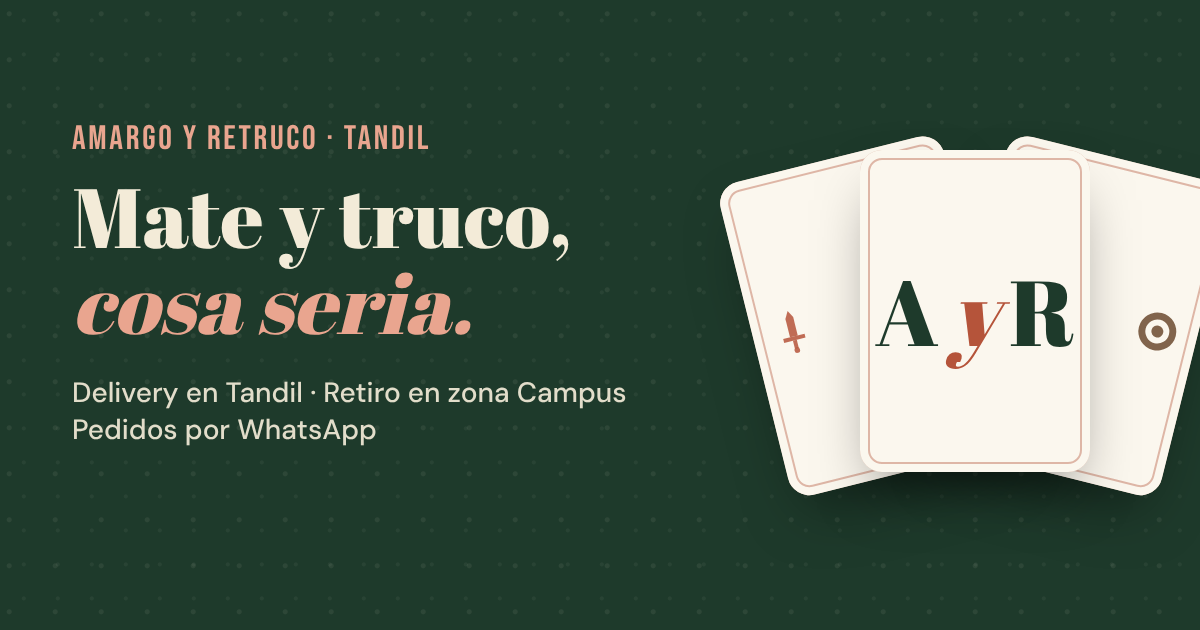
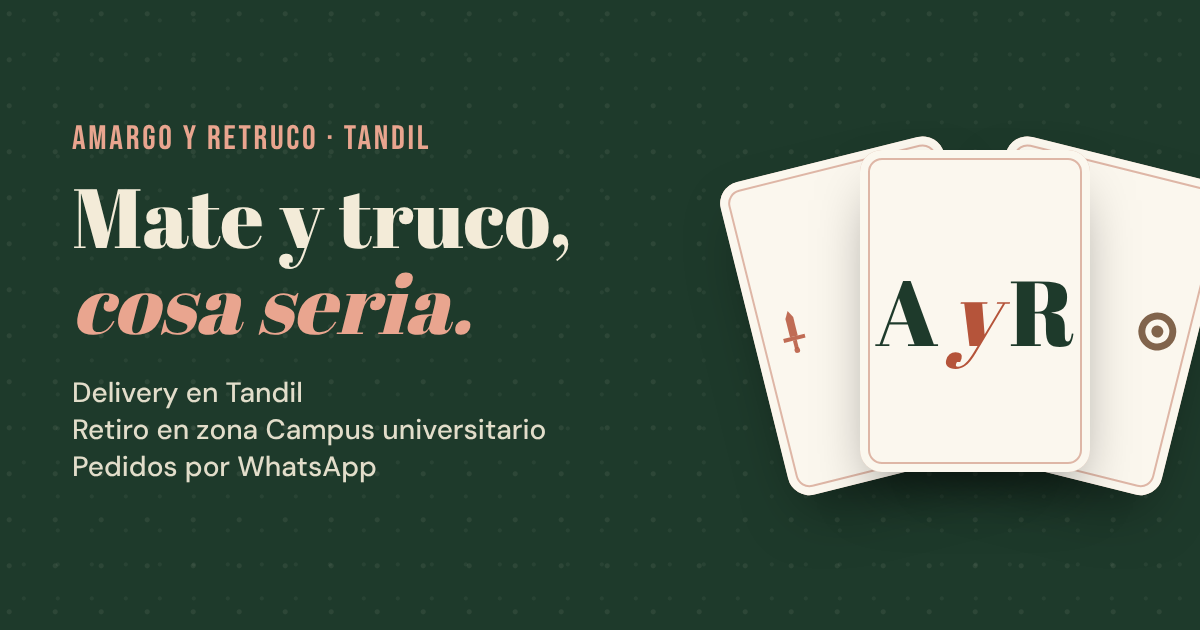
Retiro en "zona Campus universitario"
Actualiza la zona de retiro en config, "Quiénes somos", la imagen para
compartir, el README y los tests.

Claude-Session: https://claude.ai/code/session_01AajJ9CrE6UsKCjubmmoLxV

Changed region(s): [[0.0617, 0.6032, 0.5242, 0.7841]]

diff --git a/tests/e2e/site.spec.ts b/tests/e2e/site.spec.ts
@@ -153,12 +153,12 @@ test('carrito: mínimo de delivery, cambio a retiro y mensaje de WhatsApp', asyn
   await expect(orderLink(page)).not.toHaveAttribute('href', /.+/);
 
   // Ofrece cambiar a retiro.
-  await cart.getByRole('button', { name: 'Cambiar a retiro en zona Campus' }).click();
-  await expect(cart.getByLabel(/Retiro en zona Campus/)).toBeChecked();
+  await cart.getByRole('button', { name: 'Cambiar a retiro en zona Campus universitario' }).click();
+  await expect(cart.getByLabel(/Retiro en zona Campus universitario/)).toBeChecked();
   await expect(cart.locator('[data-min-warning]')).toBeHidden();
   await expect(orderLink(page)).not.toHaveAttribute('aria-disabled', 'true');
   let message = await orderMessage(page);
-  expect(message).toContain('Entrega: Retiro en zona Campus');
+  expect(message).toContain('Entrega: Retiro en zona Campus universitario');
   expect(message).toContain('*Total: $ 17.200*');
   expect(message).toContain(DISCLAIMER);
 
@@ -224,7 +224,7 @@ test('el carrito se guarda al recargar, sin datos personales', async ({ page }) 
   await card(page, ID.baldo1kg).locator('[data-add]').click();
   await page.locator('[data-cart-open]').first().click();
   await page.getByLabel(/Tu nombre/).fill('Juana');
-  await page.getByLabel(/Retiro en zona Campus/).check();
+  await page.getByLabel(/Retiro en zona Campus universitario/).check();
   await page.keyboard.press('Escape');
 
   await page.reload();
@@ -235,7 +235,7 @@ test('el carrito se guarda al recargar, sin datos personales', async ({ page }) 
 
   await page.locator('[data-cart-open]').first().click();
   await expect(page.getByLabel(/Tu nombre/)).toHaveValue('');
-  await expect(page.getByLabel(/Retiro en zona Campus/)).toBeChecked();
+  await expect(page.getByLabel(/Retiro en zona Campus universitario/)).toBeChecked();
 });
 
 test('un carrito guardado se ajusta al stock actual y los precios salen del catálogo', async ({ page }) => {

diff --git a/src/config.ts b/src/config.ts
@@ -17,7 +17,7 @@ export const BUSINESS = {
   countryCode: 'AR',
   tagline: 'Mate y truco, cosa seria',
   description:
-    'Yerba mate de las marcas que te gustan, con delivery en Tandil o retiro en zona Campus. Armá tu pedido y lo cerramos por WhatsApp.',
+    'Yerba mate de las marcas que te gustan, con delivery en Tandil o retiro en zona Campus universitario. Armá tu pedido y lo cerramos por WhatsApp.',
 } as const;
 
 /* ------------------------------------------------------------------ */
@@ -45,7 +45,7 @@ export const INSTAGRAM_HANDLE = '@amargoyretruco.tandil';
 export const MIN_DELIVERY_AMOUNT = 20000;
 
 /** Zona de retiro. La dirección exacta NO se publica: se coordina por WhatsApp. */
-export const PICKUP_AREA = 'zona Campus';
+export const PICKUP_AREA = 'zona Campus universitario';
 
 /**
  * Horarios de atención y entrega. `null` = todavía no definidos

diff --git a/tests/unit/whatsapp.test.ts b/tests/unit/whatsapp.test.ts
@@ -15,7 +15,7 @@ function totalsFor(items: [CartProduct, number][]) {
 
 const base = {
   businessName: 'Amargo y Retruco',
-  pickupArea: 'zona Campus',
+  pickupArea: 'zona Campus universitario',
   city: 'Tandil',
   disclaimer: DISCLAIMER,
 };
@@ -51,7 +51,7 @@ describe('buildOrderMessage', () => {
 
   it('retiro, sin nombre ni zona', () => {
     const message = buildOrderMessage({ ...base, totals: totalsFor([[baldo, 1]]), delivery: 'pickup' });
-    expect(message).toContain('Entrega: Retiro en zona Campus');
+    expect(message).toContain('Entrega: Retiro en zona Campus universitario');
     expect(message).not.toContain('Nombre:');
     expect(message).not.toContain('Zona/barrio:');
     expect(message).toContain(DISCLAIMER);

diff --git a/README.md b/README.md
@@ -112,7 +112,7 @@ Todo lo editable a mano está en **`src/config.ts`**, con comentarios:
 
 - `WHATSAPP_NUMBER`, `INSTAGRAM_URL`: contacto.
 - `MIN_DELIVERY_AMOUNT`: compra mínima para delivery (**provisorio: 20000**).
-- `PICKUP_AREA`: zona de retiro (`zona Campus`). La dirección exacta no se publica.
+- `PICKUP_AREA`: zona de retiro (`zona Campus universitario`). La dirección exacta no se publica.
 - `BUSINESS_HOURS`: horarios (`null` = "los coordinamos por WhatsApp").
 - `DELIVERY_FEE_INFO`: texto sobre el costo del envío (`null` = no se muestra).
 - `LOW_STOCK_THRESHOLD`, `MAX_REASONABLE_PRICE`, `CATALOG_CACHE_CONTROL`: reglas del catálogo.
@@ -140,7 +140,7 @@ Regenera `public/og-image.png` (la imagen que aparece al compartir el link en Wh
 ## 8. Cómo funciona el pedido
 
 1. La persona elige yerbas y cantidades (con un máximo igual al stock).
-2. En el carrito elige **Delivery en Tandil** o **Retiro en zona Campus**.
+2. En el carrito elige **Delivery en Tandil** o **Retiro en zona Campus universitario**.
    - Si elige delivery y el total no llega a `MIN_DELIVERY_AMOUNT`, la web le muestra cuánto falta, **bloquea el pedido con delivery** y le ofrece cambiar a retiro.
 3. Nombre y zona/barrio son opcionales y **no se guardan**: solo se agregan al mensaje.
 4. El botón **Pedir por WhatsApp** abre `wa.me/5491133907596` con el mensaje armado: saludo, productos (cantidad × producto, presentación, precio), total, entrega, nombre, zona y la leyenda **"Precios y stock sujetos a confirmación por WhatsApp"**.

diff --git a/src/content/quienes-somos.md b/src/content/quienes-somos.md
@@ -7,6 +7,6 @@ kicker: Nuestra mano
 
 Somos **Amargo y Retruco**, un emprendimiento de Tandil que junta dos cosas bien nuestras: el mate y el truco.
 
-Elegimos yerbas que nos gustan, las tenemos en casa y te las llevamos por delivery en Tandil, o pasás a buscarlas por zona Campus. Sin vueltas: armás el pedido, lo charlamos por WhatsApp y listo.
+Elegimos yerbas que nos gustan, las tenemos en casa y te las llevamos por delivery en Tandil, o pasás a buscarlas por la zona del Campus universitario. Sin vueltas: armás el pedido, lo charlamos por WhatsApp y listo.
 
 En la mesa de truco se vale mentir. Acá no: lo que ves es lo que hay. *Cebá bien, jugá mejor.*
